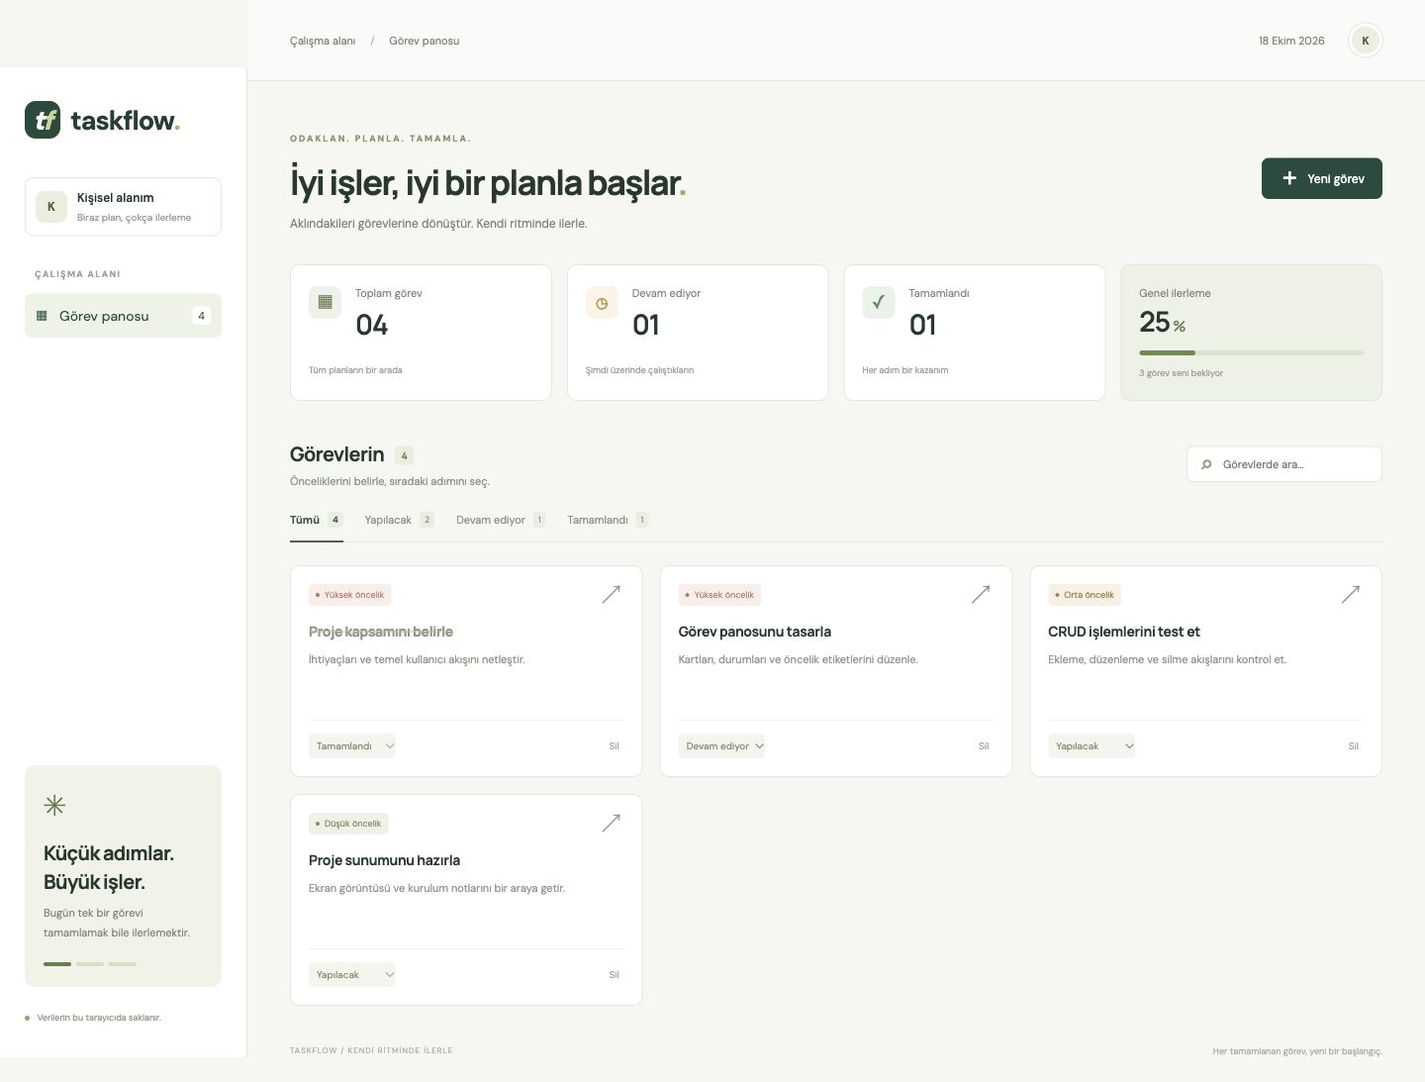
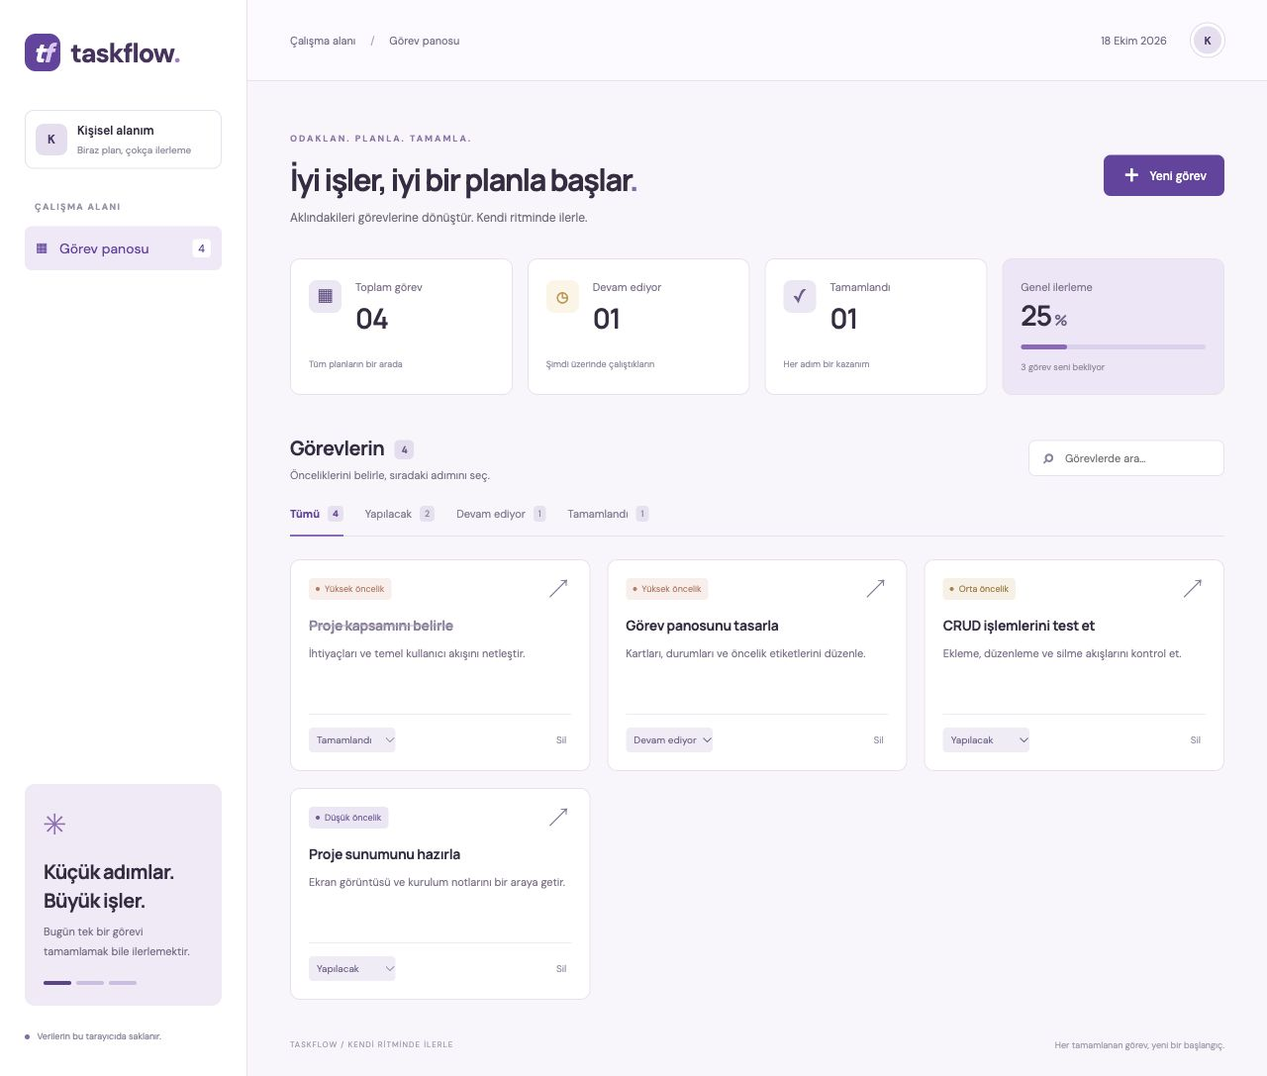
Arayüzü mor ve lavanta tonlarıyla kişiselleştir

diff --git a/src/style.css b/src/style.css
@@ -1,2 +1,5 @@
 @import url('https://fonts.googleapis.com/css2?family=DM+Sans:wght@400;500;600;700&family=Manrope:wght@400;500;600;700;800&display=swap');
-:root{font-family:'DM Sans',sans-serif;color:#253730;background:#f6f7f3;--green:#214b3d;--muted:#7b837b;--line:#e3e7de}*{box-sizing:border-box}body{margin:0}button,input,textarea,select{font:inherit}button{cursor:pointer;transition:background .15s}button:hover{filter:brightness(.96)}button:focus-visible,a:focus-visible{outline:3px solid #a6be7c;outline-offset:3px}.app-shell{display:flex;min-height:100vh}.sidebar{width:250px;background:#fff;border-right:1px solid var(--line);padding:34px 25px;display:flex;flex-direction:column;position:fixed;inset:0 auto 0 0}.brand{display:flex;align-items:center;text-decoration:none;color:#213f34;font-size:27px;font-weight:800;letter-spacing:-1px}.brand-dot{color:#9fba6a}.brand-icon{background:#244b3b;color:white;border-radius:11px;width:36px;height:38px;display:inline-flex;align-items:center;justify-content:center;margin-right:10px;font-size:27px;font-style:italic}.brand-icon span{color:#c7d79b}.workspace{display:flex;gap:10px;border:1px solid var(--line);border-radius:9px;padding:12px 10px;margin-top:39px;font-size:12px;font-weight:600;align-items:center}.workspace small{display:block;font-size:10px;color:#969d96;margin-top:5px;font-weight:400}.avatar,.profile{width:32px;height:32px;background:#ebeee0;color:#53633d;display:grid;place-items:center;border-radius:8px;font-weight:700}.nav-label{font-size:9px;letter-spacing:1.4px;color:#9ba299;font-weight:700;margin:32px 10px 14px}nav button{display:flex;align-items:center;gap:12px;border:0;border-radius:7px;width:100%;padding:13px 11px;color:var(--green);font-size:14px}.nav-active{background:#eef2e6}.nav-count{margin-left:auto;font-size:11px;background:white;padding:2px 6px;border-radius:4px}.sidebar-note{background:#f1f3e8;padding:21px 19px;border-radius:10px;margin-top:auto;overflow:hidden}.sidebar-note>span{font-size:30px;color:#607a46}.sidebar-note h3{font-family:Manrope,sans-serif;font-size:20px;line-height:1.45;letter-spacing:-.6px;margin:13px 0 8px}.sidebar-note p{font-size:11px;line-height:1.8;color:#7c8772;margin:0 0 20px}.note-lines{display:flex;gap:5px}.note-lines i{height:4px;background:#d6dfc3;width:28px;border-radius:5px}.note-lines i:first-child{background:#65804b}.sidebar-foot{font-size:9px;color:#90998c;margin-top:25px;white-space:nowrap}.online-dot{display:inline-block;width:5px;height:5px;border-radius:50%;background:#8ea474;margin-right:5px}main{margin-left:250px;width:calc(100% - 250px)}.topbar{height:82px;border-bottom:1px solid var(--line);padding:0 43px;display:flex;align-items:center;justify-content:space-between;font-size:11px;color:#798277;background:#fafbf8}.topbar b{font-weight:400;margin:0 12px;color:#b3b9b0}.top-date{display:flex;gap:24px;align-items:center}.profile{border-radius:50%;border:3px solid white;box-shadow:0 0 0 1px #e3e6db;font-size:11px;width:34px;height:34px}.main-content{max-width:1500px;margin:0 auto;padding:45px 43px 25px}.page-heading{display:flex;justify-content:space-between;align-items:center;gap:20px;margin-bottom:34px}.eyebrow{font-size:9px;letter-spacing:2px;color:#899573;font-weight:700}h1{font-family:Manrope,sans-serif;font-size:clamp(25px,2.4vw,36px);letter-spacing:-1.5px;font-weight:700;margin:12px 0 10px}h1>span{color:#9eaf72}.page-heading p{font-size:12px;color:var(--muted);margin:0}.primary{border:0;color:white;background:var(--green);border-radius:7px;padding:13px 18px;font-size:12px;font-weight:500;white-space:nowrap}.new-task{display:flex;align-items:center;gap:8px}.new-task>span{font-size:20px;line-height:15px}.stats{display:grid;grid-template-columns:repeat(4,1fr);gap:15px;margin-bottom:39px}.stats>div{background:white;border:1px solid var(--line);border-radius:10px;padding:21px 18px;display:grid;grid-template-columns:34px 1fr;column-gap:13px;row-gap:17px}.stat-icon{background:#f0f2e9;width:33px;height:33px;border-radius:8px;display:grid;place-items:center;color:#6c7b54;font-size:19px}.stat-icon.amber{background:#fcf5e7;color:#c3974d}.stat-icon.green{background:#eaf2e9;color:#648b62}.stats section>span{color:#7f877b;font-size:11px;display:block}.stats strong{font-family:Manrope,sans-serif;font-size:28px;letter-spacing:-1px;font-weight:600;display:block;line-height:1.4;margin-top:4px}.stats small{grid-column:1/-1;font-size:9px;color:#9aa193}.stats>div.progress-stat{background:#edf1e4;display:flex;flex-direction:column;gap:0}.progress-stat strong{line-height:1.2}.progress-stat em{font-size:15px;font-style:normal;padding-left:3px;color:#738265}.progress-track{height:5px;background:#dce3cf;border-radius:8px;margin:13px 0 12px;overflow:hidden}.progress-track i{height:100%;background:#6f894f;display:block;border-radius:8px}.board-toolbar{display:flex;justify-content:space-between;align-items:center;gap:20px}.board h2{font-family:Manrope,sans-serif;font-size:20px;letter-spacing:-.6px;margin:0 0 7px;font-weight:700}.board h2 span{font-size:10px;background:#e9eddf;padding:3px 7px;vertical-align:middle;border-radius:5px;margin-left:7px;color:#72805d}.board-toolbar p{font-size:11px;color:#8d9588;margin:0}.search{background:white;border:1px solid var(--line);border-radius:7px;display:flex;gap:8px;align-items:center;padding:9px 12px}.search span{font-size:23px;color:#939e89;line-height:15px}.search input{background:transparent;border:0;outline:0;width:150px;font-size:11px;color:var(--green)}.search:focus-within{outline:2px solid #a6be7c}.filters{display:flex;gap:22px;border-bottom:1px solid var(--line);margin:24px 0 23px}.filters button{border:0;background:transparent;padding:0 0 14px;color:#8c9586;font-size:11px;position:relative;display:flex;gap:8px;align-items:center}.filters .selected{color:#38533c;font-weight:700}.filters .selected:after{content:'';position:absolute;bottom:-1px;height:2px;background:#446444;left:0;right:0}.filters button span{font-size:9px;background:#e9ede3;padding:2px 5px;border-radius:4px}.task-grid{display:grid;grid-template-columns:repeat(3,minmax(0,1fr));gap:17px}.task-card{background:white;border:1px solid var(--line);border-radius:10px;padding:18px;min-height:214px;display:flex;flex-direction:column}.task-card:hover{box-shadow:0 6px 20px #233c2410}.card-top{display:flex;justify-content:space-between;align-items:center;margin-bottom:15px}.priority{display:flex;gap:5px;align-items:center;font-size:9px;background:#f7f0e5;color:#aa8242;padding:5px 7px;border-radius:4px}.priority i{width:4px;height:4px;background:currentColor;border-radius:50%}.priority.high{background:#faeeea;color:#b97c63}.priority.low{background:#eff2e8;color:#829364}.icon-button{border:0;background:transparent;color:#8a9583;font-size:20px;line-height:22px;padding:0 3px}.task-card h3{font-family:Manrope,sans-serif;font-size:14px;line-height:1.5;letter-spacing:-.3px;margin:0 0 8px;overflow-wrap:anywhere}.task-card p{font-size:11px;line-height:1.8;color:#91998b;margin:0 0 17px;overflow-wrap:anywhere}.task-card footer{display:flex;align-items:center;justify-content:space-between;border-top:1px solid #f0f1ec;padding-top:13px;margin-top:auto}.task-card footer select{font-size:10px;border:0;background:#f3f5ed;color:#7c896a;padding:5px 4px;border-radius:4px;max-width:130px;cursor:pointer}.done h3{color:#8b9581;text-decoration:line-through;text-decoration-color:#bac2af}.delete-button{border:0;background:transparent;font-size:10px;color:#a2a99b;padding:5px}.delete-button:hover{color:#b65845}.due{font-size:10px;color:#88957c;margin-bottom:12px}.page-foot{display:flex;justify-content:space-between;margin-top:40px;color:#a7afa0;font-size:9px;gap:20px}.page-foot span:first-child{font-size:8px;letter-spacing:1px}.empty{text-align:center;padding:55px 10px;color:#89957d}.empty>span{font-size:35px}.empty h3{color:#425b39;font-size:19px}.empty p{font-size:12px;margin-bottom:20px}dialog{border:1px solid var(--line);border-radius:15px;padding:30px;width:min(520px,calc(100% - 30px));color:#253730;box-shadow:0 25px 80px #19332333}dialog::backdrop{background:#1c332762;backdrop-filter:blur(4px)}.modal-head{display:flex;justify-content:space-between;align-items:center;margin-bottom:22px}.modal-head h2{font-family:Manrope,sans-serif;letter-spacing:-.7px;font-size:25px;margin:7px 0 0}form label{display:block;font-size:12px;margin-bottom:17px;color:#63735a}form input,form textarea,form select{display:block;width:100%;margin-top:7px;border:1px solid #dfe4d7;border-radius:6px;padding:11px;background:#fcfdf9;color:#30462b;font-size:13px}form textarea{resize:vertical}form input:focus,form textarea:focus,form select:focus{outline:2px solid #a6be7c;outline-offset:1px}.form-grid{display:grid;grid-template-columns:1fr 1fr;gap:16px}.optional{font-size:10px;color:#9da794}.modal-actions{display:flex;gap:10px;justify-content:flex-end;margin-top:25px}.secondary{background:white;border:1px solid #dce3d3;color:#6e7f62;padding:11px 17px;border-radius:7px;font-size:12px}.danger{background:#a74938;color:white;border:0;border-radius:7px;padding:11px 17px;font-size:12px}.toast{position:fixed;bottom:25px;left:50%;transform:translate(-50%,15px);background:#214b3d;color:white;padding:13px 22px;border-radius:8px;opacity:0;pointer-events:none;font-size:13px;transition:.2s;z-index:10}.toast.visible{opacity:1;transform:translate(-50%,0)}.confirm-backdrop{position:fixed;inset:0;background:#1c332762;display:grid;place-items:center;z-index:5;padding:20px}.confirm{background:white;border-radius:12px;padding:27px;max-width:420px;width:100%}.confirm h2{font-size:20px;margin:0 0 15px}.confirm p{font-size:13px;line-height:1.7;color:#839077;overflow-wrap:anywhere}.storage-error{position:fixed;bottom:10px;right:10px;background:#fbe8d6;color:#8c4229;padding:15px;max-width:350px;font-size:12px;z-index:15}@media(min-width:1600px){.task-grid{grid-template-columns:repeat(4,minmax(0,1fr))}}@media(max-width:1150px){.sidebar{width:210px;padding:28px 18px}main{margin-left:210px;width:calc(100% - 210px)}.main-content{padding:32px 26px}.topbar{padding:0 26px}.stats{gap:10px}.stats>div{padding:16px 12px;column-gap:8px;grid-template-columns:27px 1fr}.stat-icon{width:27px;height:29px}.stats section>span{font-size:10px}.task-grid{grid-template-columns:repeat(2,minmax(0,1fr))}}@media(max-width:800px){.sidebar{position:static;width:auto;flex-direction:row;align-items:center;padding:17px 22px;border-right:0;border-bottom:1px solid var(--line);justify-content:space-between}.brand{font-size:23px}.brand-icon{width:30px;height:31px;font-size:23px}.workspace,.nav-label,.sidebar-note,.sidebar-foot{display:none}nav button{font-size:11px;width:auto;padding:9px 11px}.app-shell{display:block}main{margin:0;width:100%}.topbar{height:57px;padding:0 22px}.main-content{padding:29px 22px}.stats{gap:10px;margin-bottom:28px}.page-heading{margin-bottom:25px}.page-heading h1{font-size:27px}.stats small{font-size:8px}.stats>div{grid-template-columns:1fr;gap:9px}.stat-icon{display:none}.stats strong{font-size:25px}.stats>div.progress-stat{padding-top:16px}.progress-track{margin:15px 0 12px}}@media(max-width:520px){.topbar{font-size:9px}.top-date{gap:10px}.profile{width:26px;height:26px}.page-heading{align-items:flex-start;flex-direction:column;gap:18px}.page-heading h1{font-size:26px;letter-spacing:-1px}.page-heading p{font-size:11px}.eyebrow{font-size:8px}.stats{grid-template-columns:repeat(2,1fr)}.stats>div{padding:16px;row-gap:8px}.stats small{font-size:9px}.stats>div.progress-stat{padding:16px}.progress-track{margin:13px 0 10px}.board-toolbar{align-items:flex-start;gap:15px;flex-direction:column}.search{width:100%}.search input{width:100%}.filters{gap:0;justify-content:space-between}.filters button{font-size:10px;gap:5px}.task-grid{grid-template-columns:1fr}.task-card{min-height:190px}.page-foot{flex-direction:column;gap:8px}dialog{padding:22px}.modal-actions{gap:8px}.modal-actions button{font-size:11px;padding:11px 13px}.new-task{align-self:flex-start}.toast{width:max-content;max-width:90%}}
+:root{font-family:'DM Sans',sans-serif;color:#2c223a;background:#f5f2f8;--accent:#311b51;--muted:#7c708e;--line:#e1dce9}*{box-sizing:border-box}body{margin:0}button,input,textarea,select{font:inherit}button{cursor:pointer;transition:background .15s}button:hover{filter:brightness(.96)}button:focus-visible,a:focus-visible{outline:3px solid #9570ca;outline-offset:3px}.app-shell{display:flex;min-height:100vh}.sidebar{width:250px;background:#fff;border-right:1px solid var(--line);padding:34px 25px;display:flex;flex-direction:column;position:fixed;inset:0 auto 0 0}.brand{display:flex;align-items:center;text-decoration:none;color:#2c1c44;font-size:27px;font-weight:800;letter-spacing:-1px}.brand-dot{color:#885cc8}.brand-icon{background:#331d52;color:white;border-radius:11px;width:36px;height:38px;display:inline-flex;align-items:center;justify-content:center;margin-right:10px;font-size:27px;font-style:italic}.brand-icon span{color:#b396dc}.workspace{display:flex;gap:10px;border:1px solid var(--line);border-radius:9px;padding:12px 10px;margin-top:39px;font-size:12px;font-weight:600;align-items:center}.workspace small{display:block;font-size:10px;color:#978da6;margin-top:5px;font-weight:400}.avatar,.profile{width:32px;height:32px;background:#e5def0;color:#4b366a;display:grid;place-items:center;border-radius:8px;font-weight:700}.nav-label{font-size:9px;letter-spacing:1.4px;color:#9b92a9;font-weight:700;margin:32px 10px 14px}nav button{display:flex;align-items:center;gap:12px;border:0;border-radius:7px;width:100%;padding:13px 11px;color:var(--accent);font-size:14px}.nav-active{background:#ebe4f4}.nav-count{margin-left:auto;font-size:11px;background:white;padding:2px 6px;border-radius:4px}.sidebar-note{background:#ece6f5;padding:21px 19px;border-radius:10px;margin-top:auto;overflow:hidden}.sidebar-note>span{font-size:30px;color:#5a3d83}.sidebar-note h3{font-family:Manrope,sans-serif;font-size:20px;line-height:1.45;letter-spacing:-.6px;margin:13px 0 8px}.sidebar-note p{font-size:11px;line-height:1.8;color:#7a6e8b;margin:0 0 20px}.note-lines{display:flex;gap:5px}.note-lines i{height:4px;background:#cebee4;width:28px;border-radius:5px}.note-lines i:first-child{background:#5f4289}.sidebar-foot{font-size:9px;color:#9085a0;margin-top:25px;white-space:nowrap}.online-dot{display:inline-block;width:5px;height:5px;border-radius:50%;background:#866cac;margin-right:5px}main{margin-left:250px;width:calc(100% - 250px)}.topbar{height:82px;border-bottom:1px solid var(--line);padding:0 43px;display:flex;align-items:center;justify-content:space-between;font-size:11px;color:#7a6e8b;background:#f9f7fc}.topbar b{font-weight:400;margin:0 12px;color:#b3acbd}.top-date{display:flex;gap:24px;align-items:center}.profile{border-radius:50%;border:3px solid white;box-shadow:0 0 0 1px #dfd9e8;font-size:11px;width:34px;height:34px}.main-content{max-width:1500px;margin:0 auto;padding:45px 43px 25px}.page-heading{display:flex;justify-content:space-between;align-items:center;gap:20px;margin-bottom:34px}.eyebrow{font-size:9px;letter-spacing:2px;color:#806d9b;font-weight:700}h1{font-family:Manrope,sans-serif;font-size:clamp(25px,2.4vw,36px);letter-spacing:-1.5px;font-weight:700;margin:12px 0 10px}h1>span{color:#8967ba}.page-heading p{font-size:12px;color:var(--muted);margin:0}.primary{border:0;color:white;background:var(--accent);border-radius:7px;padding:13px 18px;font-size:12px;font-weight:500;white-space:nowrap}.new-task{display:flex;align-items:center;gap:8px}.new-task>span{font-size:20px;line-height:15px}.stats{display:grid;grid-template-columns:repeat(4,1fr);gap:15px;margin-bottom:39px}.stats>div{background:white;border:1px solid var(--line);border-radius:10px;padding:21px 18px;display:grid;grid-template-columns:34px 1fr;column-gap:13px;row-gap:17px}.stat-icon{background:#ece7f4;width:33px;height:33px;border-radius:8px;display:grid;place-items:center;color:#634d82;font-size:19px}.stat-icon.amber{background:#fcf5e7;color:#c3974d}.stat-icon.green{background:#ece7f4;color:#725b92}.stats section>span{color:#7e7290;font-size:11px;display:block}.stats strong{font-family:Manrope,sans-serif;font-size:28px;letter-spacing:-1px;font-weight:600;display:block;line-height:1.4;margin-top:4px}.stats small{grid-column:1/-1;font-size:9px;color:#988ea6}.stats>div.progress-stat{background:#e9e2f3;display:flex;flex-direction:column;gap:0}.progress-stat strong{line-height:1.2}.progress-stat em{font-size:15px;font-style:normal;padding-left:3px;color:#706087}.progress-track{height:5px;background:#d7cbe6;border-radius:8px;margin:13px 0 12px;overflow:hidden}.progress-track i{height:100%;background:#654593;display:block;border-radius:8px}.board-toolbar{display:flex;justify-content:space-between;align-items:center;gap:20px}.board h2{font-family:Manrope,sans-serif;font-size:20px;letter-spacing:-.6px;margin:0 0 7px;font-weight:700}.board h2 span{font-size:10px;background:#e4ddef;padding:3px 7px;vertical-align:middle;border-radius:5px;margin-left:7px;color:#6a5786}.board-toolbar p{font-size:11px;color:#8c819c;margin:0}.search{background:white;border:1px solid var(--line);border-radius:7px;display:flex;gap:8px;align-items:center;padding:9px 12px}.search span{font-size:23px;color:#9185a2;line-height:15px}.search input{background:transparent;border:0;outline:0;width:150px;font-size:11px;color:var(--accent)}.search:focus-within{outline:2px solid #9570ca}.filters{display:flex;gap:22px;border-bottom:1px solid var(--line);margin:24px 0 23px}.filters button{border:0;background:transparent;padding:0 0 14px;color:#8b809b;font-size:11px;position:relative;display:flex;gap:8px;align-items:center}.filters .selected{color:#423358;font-weight:700}.filters .selected:after{content:'';position:absolute;bottom:-1px;height:2px;background:#503e6a;left:0;right:0}.filters button span{font-size:9px;background:#e7e1ef;padding:2px 5px;border-radius:4px}.task-grid{display:grid;grid-template-columns:repeat(3,minmax(0,1fr));gap:17px}.task-card{background:white;border:1px solid var(--line);border-radius:10px;padding:18px;min-height:214px;display:flex;flex-direction:column}.task-card:hover{box-shadow:0 6px 20px #2c1f4010}.card-top{display:flex;justify-content:space-between;align-items:center;margin-bottom:15px}.priority{display:flex;gap:5px;align-items:center;font-size:9px;background:#f7f0e5;color:#aa8242;padding:5px 7px;border-radius:4px}.priority i{width:4px;height:4px;background:currentColor;border-radius:50%}.priority.high{background:#faeeea;color:#b97c63}.priority.low{background:#ece6f4;color:#765c9b}.icon-button{border:0;background:transparent;color:#8a7e9a;font-size:20px;line-height:22px;padding:0 3px}.task-card h3{font-family:Manrope,sans-serif;font-size:14px;line-height:1.5;letter-spacing:-.3px;margin:0 0 8px;overflow-wrap:anywhere}.task-card p{font-size:11px;line-height:1.8;color:#90859f;margin:0 0 17px;overflow-wrap:anywhere}.task-card footer{display:flex;align-items:center;justify-content:space-between;border-top:1px solid #eeebf2;padding-top:13px;margin-top:auto}.task-card footer select{font-size:10px;border:0;background:#f0ecf6;color:#76658e;padding:5px 4px;border-radius:4px;max-width:130px;cursor:pointer}.done h3{color:#887d99;text-decoration:line-through;text-decoration-color:#b6acc5}.delete-button{border:0;background:transparent;font-size:10px;color:#a097ad;padding:5px}.delete-button:hover{color:#b65845}.due{font-size:10px;color:#857899;margin-bottom:12px}.page-foot{display:flex;justify-content:space-between;margin-top:40px;color:#a69db2;font-size:9px;gap:20px}.page-foot span:first-child{font-size:8px;letter-spacing:1px}.empty{text-align:center;padding:55px 10px;color:#867999}.empty>span{font-size:35px}.empty h3{color:#463361;font-size:19px}.empty p{font-size:12px;margin-bottom:20px}dialog{border:1px solid var(--line);border-radius:15px;padding:30px;width:min(520px,calc(100% - 30px));color:#2c223a;box-shadow:0 25px 80px #23143833}dialog::backdrop{background:#25183762;backdrop-filter:blur(4px)}.modal-head{display:flex;justify-content:space-between;align-items:center;margin-bottom:22px}.modal-head h2{font-family:Manrope,sans-serif;letter-spacing:-.7px;font-size:25px;margin:7px 0 0}form label{display:block;font-size:12px;margin-bottom:17px;color:#635677}form input,form textarea,form select{display:block;width:100%;margin-top:7px;border:1px solid #dcd5e6;border-radius:6px;padding:11px;background:#fbf9fd;color:#35264b;font-size:13px}form textarea{resize:vertical}form input:focus,form textarea:focus,form select:focus{outline:2px solid #9570ca;outline-offset:1px}.form-grid{display:grid;grid-template-columns:1fr 1fr;gap:16px}.optional{font-size:10px;color:#9b91aa}.modal-actions{display:flex;gap:10px;justify-content:flex-end;margin-top:25px}.secondary{background:white;border:1px solid #d9d0e6;color:#6d5d84;padding:11px 17px;border-radius:7px;font-size:12px}.danger{background:#a74938;color:white;border:0;border-radius:7px;padding:11px 17px;font-size:12px}.toast{position:fixed;bottom:25px;left:50%;transform:translate(-50%,15px);background:#311b51;color:white;padding:13px 22px;border-radius:8px;opacity:0;pointer-events:none;font-size:13px;transition:.2s;z-index:10}.toast.visible{opacity:1;transform:translate(-50%,0)}.confirm-backdrop{position:fixed;inset:0;background:#25183762;display:grid;place-items:center;z-index:5;padding:20px}.confirm{background:white;border-radius:12px;padding:27px;max-width:420px;width:100%}.confirm h2{font-size:20px;margin:0 0 15px}.confirm p{font-size:13px;line-height:1.7;color:#807394;overflow-wrap:anywhere}.storage-error{position:fixed;bottom:10px;right:10px;background:#fbe8d6;color:#8c4229;padding:15px;max-width:350px;font-size:12px;z-index:15}@media(min-width:1600px){.task-grid{grid-template-columns:repeat(4,minmax(0,1fr))}}@media(max-width:1150px){.sidebar{width:210px;padding:28px 18px}main{margin-left:210px;width:calc(100% - 210px)}.main-content{padding:32px 26px}.topbar{padding:0 26px}.stats{gap:10px}.stats>div{padding:16px 12px;column-gap:8px;grid-template-columns:27px 1fr}.stat-icon{width:27px;height:29px}.stats section>span{font-size:10px}.task-grid{grid-template-columns:repeat(2,minmax(0,1fr))}}@media(max-width:800px){.sidebar{position:static;width:auto;flex-direction:row;align-items:center;padding:17px 22px;border-right:0;border-bottom:1px solid var(--line);justify-content:space-between}.brand{font-size:23px}.brand-icon{width:30px;height:31px;font-size:23px}.workspace,.nav-label,.sidebar-note,.sidebar-foot{display:none}nav button{font-size:11px;width:auto;padding:9px 11px}.app-shell{display:block}main{margin:0;width:100%}.topbar{height:57px;padding:0 22px}.main-content{padding:29px 22px}.stats{gap:10px;margin-bottom:28px}.page-heading{margin-bottom:25px}.page-heading h1{font-size:27px}.stats small{font-size:8px}.stats>div{grid-template-columns:1fr;gap:9px}.stat-icon{display:none}.stats strong{font-size:25px}.stats>div.progress-stat{padding-top:16px}.progress-track{margin:15px 0 12px}}@media(max-width:520px){.topbar{font-size:9px}.top-date{gap:10px}.profile{width:26px;height:26px}.page-heading{align-items:flex-start;flex-direction:column;gap:18px}.page-heading h1{font-size:26px;letter-spacing:-1px}.page-heading p{font-size:11px}.eyebrow{font-size:8px}.stats{grid-template-columns:repeat(2,1fr)}.stats>div{padding:16px;row-gap:8px}.stats small{font-size:9px}.stats>div.progress-stat{padding:16px}.progress-track{margin:13px 0 10px}.board-toolbar{align-items:flex-start;gap:15px;flex-direction:column}.search{width:100%}.search input{width:100%}.filters{gap:0;justify-content:space-between}.filters button{font-size:10px;gap:5px}.task-grid{grid-template-columns:1fr}.task-card{min-height:190px}.page-foot{flex-direction:column;gap:8px}dialog{padding:22px}.modal-actions{gap:8px}.modal-actions button{font-size:11px;padding:11px 13px}.new-task{align-self:flex-start}.toast{width:max-content;max-width:90%}}
+
+/* Mor tema: koyu erik vurgular ve açık lavanta yüzeyler. */
+:root{--accent:#6842a2;--muted:#777080;--line:#e8e1ef;color:#352c42;background:#f8f6fb}.brand{color:#493361}.brand-icon{background:#6842a2}.brand-icon span{color:#dec9f4}.brand-dot{color:#a87bce}.topbar{background:#fcfaff}.stats>div.progress-stat{background:#eee6f7}.progress-track{background:#dfd0ef}.progress-track i{background:#9167bc}.sidebar-note{background:#f1eaf8}.sidebar-note>span{color:#956bb9}.nav-active{background:#f0e8f8}.filters .selected{color:#6842a2}.filters .selected:after{background:#9167bc}.eyebrow{color:#9277ac}.stats section>span,.task-card p,.board-toolbar p{color:#80748d}

diff --git a/index.html b/index.html
@@ -1,1 +1,1 @@
-<!doctype html><html lang="tr"><head><meta charset="UTF-8"/><meta name="viewport" content="width=device-width,initial-scale=1.0"/><meta name="theme-color" content="#193c34"/><meta name="description" content="TaskFlow ile görevlerini planla, önceliklendir ve tamamla."/><title>TaskFlow — Görev alanın</title></head><body><div id="root"></div><script type="module" src="/src/main.jsx"></script></body></html>
+<!doctype html><html lang="tr"><head><meta charset="UTF-8"/><meta name="viewport" content="width=device-width,initial-scale=1.0"/><meta name="theme-color" content="#6842a2"/><meta name="description" content="TaskFlow ile görevlerini planla, önceliklendir ve tamamla."/><title>TaskFlow — Görev alanın</title></head><body><div id="root"></div><script type="module" src="/src/main.jsx"></script></body></html>
